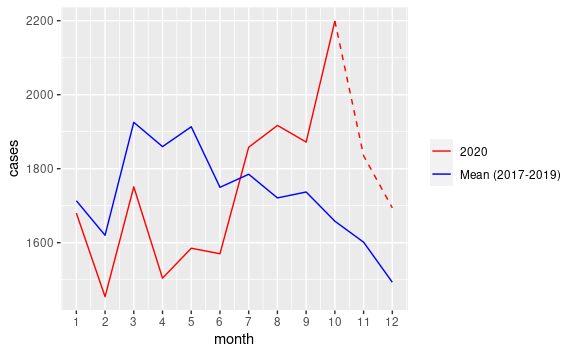
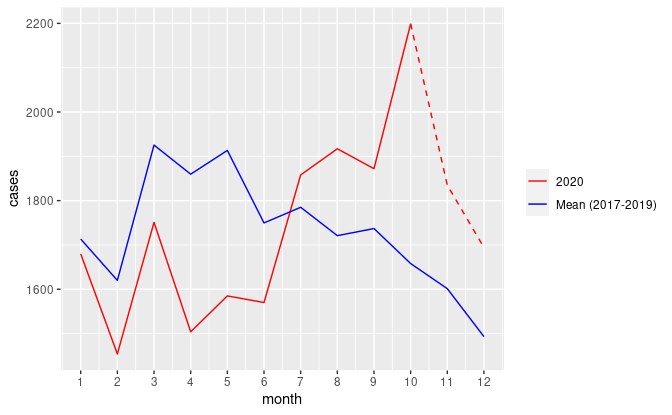
markdown does not support image alignment

diff --git a/README.md b/README.md
@@ -10,7 +10,7 @@ Mitsuo Shiota
 -   [Suicide cases are bouncing back, but not as fast as the program
     suggests](#suicide-cases-are-bouncing-back-but-not-as-fast-as-the-program-suggests)
 
-Updated: 2021-02-10
+Updated: 2021-02-11
 
 ## Motivation
 
@@ -52,7 +52,7 @@ Police Agency data, I suspect some cases were not discovered in the
 emergency period, and were discovered later. This may explain some part
 of excess from July to October.
 
-<img src="README_files/figure-gfm/replicate-1.png" width="70%" style="display: block; margin: auto;" />
+<img src="README_files/figure-gfm/replicate-1.png" width="100%" />
 
 ## Suicide cases are bouncing back, but not as fast as the program suggests
 
@@ -66,13 +66,13 @@ As Japan has been officially in recession since October 2018, the
 unemployment rates hit the bottom in late 2019, and began to climb in
 2020.
 
-<img src="README_files/figure-gfm/unemployment_chart-1.png" width="70%" style="display: block; margin: auto;" />
+<img src="README_files/figure-gfm/unemployment_chart-1.png" width="100%" />
 
 I draw a chart of both original and seasonally-adjusted cases since
 2008. Suicide cases indeed hit the bottom in the beginning of 2020, and
 are bouncing back, even though I consider the fluctuations in 2020
 should be smoothed out.
 
-<img src="README_files/figure-gfm/simple_chart-1.png" width="70%" style="display: block; margin: auto;" />
+<img src="README_files/figure-gfm/simple_chart-1.png" width="100%" />
 
 EOL
